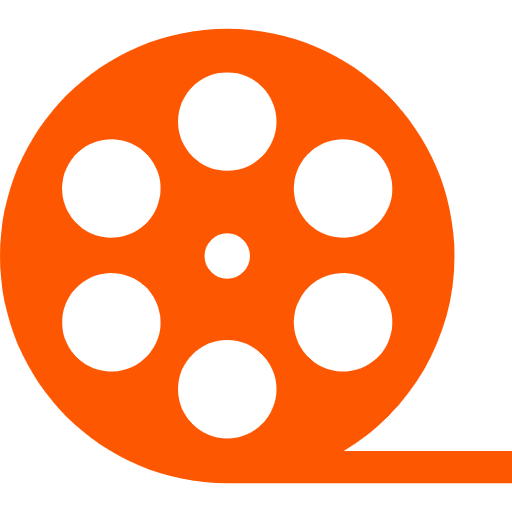
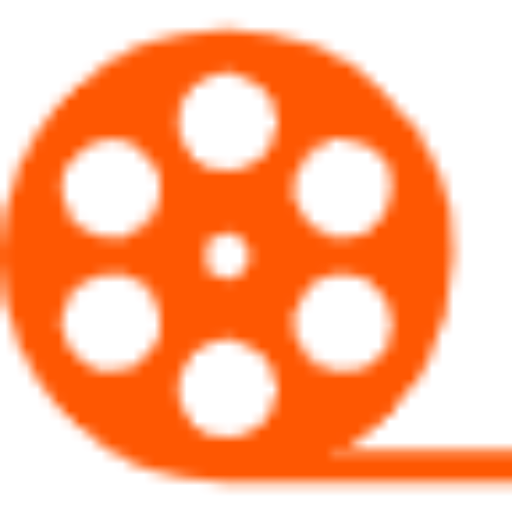
Updates

diff --git a/sw.js b/sw.js
@@ -1,1 +1,1 @@
-if(!self.define){let e,i={};const s=(s,n)=>(s=new URL(s+".js",n).href,i[s]||new Promise((i=>{if("document"in self){const e=document.createElement("script");e.src=s,e.onload=i,document.head.appendChild(e)}else e=s,importScripts(s),i()})).then((()=>{let e=i[s];if(!e)throw new Error(`Module ${s} didn’t register its module`);return e})));self.define=(n,r)=>{const t=e||("document"in self?document.currentScript.src:"")||location.href;if(i[t])return;let o={};const a=e=>s(e,t),d={module:{uri:t},exports:o,require:a};i[t]=Promise.all(n.map((e=>d[e]||a(e)))).then((e=>(r(...e),o)))}}define(["./workbox-5ffe50d4"],(function(e){"use strict";self.skipWaiting(),e.clientsClaim(),e.precacheAndRoute([{url:"assets/index-CjJJ0e2y.css",revision:null},{url:"assets/index-FQMivm2u.js",revision:null},{url:"index.html",revision:"63a8acf106f19121fe4c3aa4e13c177e"},{url:"registerSW.js",revision:"02cb16423af4349bd98a2d585da6235b"},{url:"pwa-192x192.png",revision:"537873e2af7b861ba408139f76fd8c02"},{url:"pwa-512x512.png",revision:"621793a0c50d110de8355c775443afa4"},{url:"pwa-maskable-192x192.png",revision:"237ba757afb39c046a0935560d2df4c6"},{url:"pwa-maskable-512x512.png",revision:"885b0ff8fad0e9ee9d1b0eda2cb722db"},{url:"manifest.webmanifest",revision:"99079866e4741150a742d9b5232e46fd"}],{}),e.cleanupOutdatedCaches(),e.registerRoute(new e.NavigationRoute(e.createHandlerBoundToURL("index.html")))}));
+if(!self.define){let e,i={};const s=(s,n)=>(s=new URL(s+".js",n).href,i[s]||new Promise((i=>{if("document"in self){const e=document.createElement("script");e.src=s,e.onload=i,document.head.appendChild(e)}else e=s,importScripts(s),i()})).then((()=>{let e=i[s];if(!e)throw new Error(`Module ${s} didn’t register its module`);return e})));self.define=(n,r)=>{const t=e||("document"in self?document.currentScript.src:"")||location.href;if(i[t])return;let o={};const a=e=>s(e,t),f={module:{uri:t},exports:o,require:a};i[t]=Promise.all(n.map((e=>f[e]||a(e)))).then((e=>(r(...e),o)))}}define(["./workbox-5ffe50d4"],(function(e){"use strict";self.skipWaiting(),e.clientsClaim(),e.precacheAndRoute([{url:"assets/index-CjJJ0e2y.css",revision:null},{url:"assets/index-FQMivm2u.js",revision:null},{url:"index.html",revision:"63a8acf106f19121fe4c3aa4e13c177e"},{url:"registerSW.js",revision:"02cb16423af4349bd98a2d585da6235b"},{url:"pwa-192x192.png",revision:"b804fbed807baa0bcce78267b2f5b428"},{url:"pwa-512x512.png",revision:"7c898807344a7effd0566cfa8e7aa26c"},{url:"pwa-maskable-192x192.png",revision:"d1f0e3ad6f3b7e1e95f0854a112308be"},{url:"pwa-maskable-512x512.png",revision:"60390cfa7570f3c85c61001bfbe86dea"},{url:"manifest.webmanifest",revision:"99079866e4741150a742d9b5232e46fd"}],{}),e.cleanupOutdatedCaches(),e.registerRoute(new e.NavigationRoute(e.createHandlerBoundToURL("index.html")))}));
